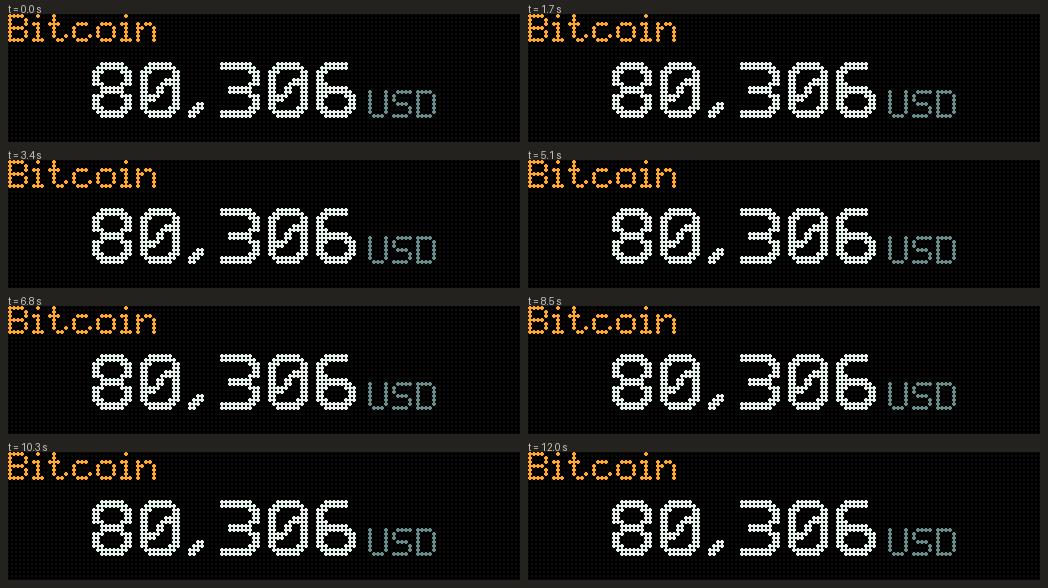
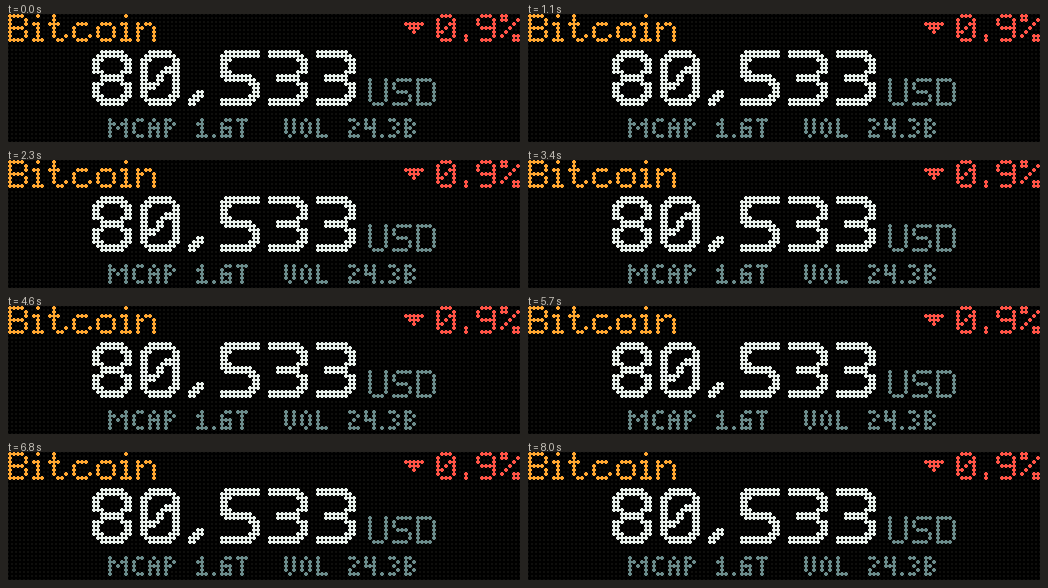
Data from a link: a change arrow and a line of detail on every card; Bitcoin now shows change, market cap and volume

diff --git a/plugins/url_data/plugin.py b/plugins/url_data/plugin.py
@@ -2,8 +2,10 @@
 
 Paste the address and the path to the field (for example `bitcoin.usd`,
 `data.0.temperature` or `stats.members`). Up to three values rotate as cards:
-your label, the value in big letters, and an optional unit. No code, no plugin
-to write. For data that needs a key, use an address that already includes it
+your label, the value in big letters, and an optional unit. Each card can also
+show a change (an arrow and a percent, green or red) and a line of detail built
+from other fields of the same reply, like `MCAP {bitcoin.usd_market_cap:short}`.
+No code, no plugin to write. For data that needs a key, use an address that already includes it
 (a Home Assistant or Node-RED endpoint on your network works well).
 """
 from __future__ import annotations
@@ -14,7 +16,8 @@ import re
 
 import aiohttp
 
-from rackticker import AMBER, MUTED, WHITE, Module, Plugin, Provider, Snapshot, draw_text, new_frame, text_width
+from rackticker import (AMBER, GREEN, MUTED, RED, WHITE, Module, Plugin, Provider, Snapshot, draw_text, draw_tiny,
+                        new_frame, text_width, tiny_width, triangle)
 
 SLOTS = 3
 CARD_SECONDS = 6.0
@@ -53,6 +56,48 @@ def display(value, decimals):
     return str(value)[:40]
 
 
+def number(value):
+    """A number from a value, or None: APIs send them as text as often as not."""
+    if isinstance(value, bool):
+        return None
+    try:
+        result = float(str(value).replace(",", "")) if isinstance(value, str) else float(value)
+    except (TypeError, ValueError):
+        return None
+    return result if math.isfinite(result) else None
+
+
+def short(value):
+    """1617671147604 -> 1.6T, 24312879325 -> 24.3B."""
+    for size, mark in ((1e12, "T"), (1e9, "B"), (1e6, "M"), (1e3, "K")):
+        if abs(value) >= size:
+            scaled = value / size
+            return f"{scaled:.1f}{mark}" if abs(scaled) < 100 else f"{scaled:.0f}{mark}"
+    return f"{value:.0f}"
+
+
+TOKEN = re.compile(r"\{([^{}:]+)(?::([^{}]*))?\}")
+
+
+def detail_line(template, payload):
+    """Fill `{path}` and `{path:short}` / `{path:+.1f}` from the reply; a missing field is '--'."""
+    def fill(match):
+        raw = pick(payload, match.group(1).strip())
+        spec = (match.group(2) or "").strip()
+        value = number(raw)
+        if raw is None:
+            return "--"
+        if value is not None and spec == "short":
+            return short(value)
+        if value is not None and spec:
+            try:
+                return format(value, spec)
+            except ValueError:
+                return display(raw, -1)
+        return display(raw, -1)
+    return TOKEN.sub(fill, template).strip()
+
+
 class Links(Provider):
     def __init__(self, context):
         self.context = context
@@ -72,7 +117,7 @@ class Links(Provider):
             async with self.session.get(url) as response:
                 response.raise_for_status()
                 payload = await response.json(content_type=None)
-            return pick(payload, settings[f"path_{slot}"].strip())
+            return payload
 
         results = await asyncio.gather(*(one(slot) for slot in range(1, SLOTS + 1)), return_exceptions=True)
         cards = []
@@ -81,14 +126,18 @@ class Links(Provider):
                 continue
             if isinstance(result, Exception):
                 print(f"link {slot}: {type(result).__name__}: {result}")
-                result = self.values.get(slot)  # keep the last good value through a hiccup
+                result = self.values.get(slot)  # keep the last good reply through a hiccup
             else:
                 self.values[slot] = result
-            if result is None:
+            value = pick(result, settings[f"path_{slot}"].strip()) if result is not None else None
+            if value is None:
                 continue
+            change = number(pick(result, settings[f"change_{slot}"].strip())) if settings[f"change_{slot}"].strip() else None
+            template = settings[f"detail_{slot}"].strip()
             cards.append({"label": settings[f"label_{slot}"] or f"Value {slot}",
-                          "value": display(result, int(settings[f"decimals_{slot}"])),
-                          "unit": settings[f"unit_{slot}"]})
+                          "value": display(value, int(settings[f"decimals_{slot}"])),
+                          "unit": settings[f"unit_{slot}"], "change": change,
+                          "detail": detail_line(template, result) if template else ""})
         return Snapshot(cards)
 
     async def close(self):
@@ -116,14 +165,26 @@ class Cards(Module):
         card = cards[int(t // CARD_SECONDS) % len(cards)]
         local = t % CARD_SECONDS
         draw_text(frame, card["label"], 0, 0, AMBER, mixed=True)
-        value, unit = card["value"], card["unit"]
+        change = card.get("change")
+        if change is not None:
+            colour = GREEN if change >= 0 else RED
+            words = f"{abs(change):.1f}%"
+            triangle(frame, 128 - text_width(words) - 8, 2, change >= 0, colour)
+            draw_text(frame, words, 128 - text_width(words), 0, colour)
+        value, unit, detail = card["value"], card["unit"], card.get("detail") or ""
         unit_width = text_width(unit) + 3 if unit else 0
         scale = 2 if text_width(value, 2) + unit_width <= 128 else 1
         x = (128 - text_width(value, scale) - unit_width) // 2
         rise = max(0, round((1 - min(1, local / .3)) * 6)) if len(cards) > 1 else 0
-        draw_text(frame, value, x, (12 if scale == 2 else 16) + rise, WHITE, scale, scale == 2)
+        # With a detail line the number moves up to make room for it.
+        top = (9 if detail else 12) if scale == 2 else (13 if detail else 16)
+        draw_text(frame, value, x, top + rise, WHITE, scale, scale == 2)
         if unit:
-            draw_text(frame, unit, x + text_width(value, scale) + 3, 19 + rise, MUTED)
+            draw_text(frame, unit, x + text_width(value, scale) + 3, top + 7 + rise, MUTED)
+        if detail:
+            while detail and tiny_width(detail) > 128:
+                detail = detail[:-1].rstrip()
+            draw_tiny(frame, detail, (128 - tiny_width(detail)) // 2, 26 + rise // 2, MUTED)
         return frame
 
 
@@ -141,14 +202,21 @@ def validate(settings):
 defaults, ui, help_text = {"refresh_seconds": 60}, {"refresh_seconds": {"advanced": True}}, {}
 for slot in range(1, SLOTS + 1):
     defaults.update({f"label_{slot}": "", f"url_{slot}": "", f"path_{slot}": "", f"unit_{slot}": "",
-                     f"decimals_{slot}": -1})
+                     f"decimals_{slot}": -1, f"change_{slot}": "", f"detail_{slot}": ""})
     ui.update({f"label_{slot}": {"label": f"Card {slot}: label"}, f"url_{slot}": {"label": f"Card {slot}: link"},
                f"path_{slot}": {"label": f"Card {slot}: field"}, f"unit_{slot}": {"label": f"Card {slot}: unit"},
-               f"decimals_{slot}": {"label": f"Card {slot}: decimals", "advanced": True}})
-defaults.update({"label_1": "Bitcoin", "url_1": "https://api.coinbase.com/v2/prices/BTC-USD/spot",
-                 "path_1": "data.amount", "unit_1": "USD", "decimals_1": 0})
-help_text = {"path_1": "Where the value is in the JSON, e.g. data.amount or items.0.price",
-             "decimals_1": "-1 shows the number as it comes"}
+               f"decimals_{slot}": {"label": f"Card {slot}: decimals", "advanced": True},
+               f"change_{slot}": {"label": f"Card {slot}: change field (optional)"},
+               f"detail_{slot}": {"label": f"Card {slot}: detail line (optional)"}})
+defaults.update({"label_1": "Bitcoin",
+                 "url_1": "https://api.coingecko.com/api/v3/simple/price?ids=bitcoin&vs_currencies=usd"
+                          "&include_24hr_change=true&include_market_cap=true&include_24hr_vol=true",
+                 "path_1": "bitcoin.usd", "unit_1": "USD", "decimals_1": 0, "change_1": "bitcoin.usd_24h_change",
+                 "detail_1": "MCAP {bitcoin.usd_market_cap:short}  VOL {bitcoin.usd_24h_vol:short}"})
+help_text = {"path_1": "Where the value is in the JSON, e.g. bitcoin.usd or items.0.price",
+             "decimals_1": "-1 shows the number as it comes",
+             "change_1": "A field holding a percent change; it shows as an arrow, green up and red down",
+             "detail_1": "A line of small print. Put fields in braces: {path} or {path:short} for 1.6T, {path:+.1f} to format"}
 
 plugin = Plugin("url_data", "Data from a link", module=Cards, provider=Links, defaults=defaults,
                 validate_settings=validate, help=help_text, ui=ui)

diff --git a/tests/test_moved.py b/tests/test_moved.py
@@ -131,3 +131,17 @@ if __name__ == "__main__":
 
 if __name__ == "__main__":
     unittest.main()
+
+
+@unittest.skipIf(validate_config is None, "clone RackTicker beside this repository to run these")
+class LinkCardTests(unittest.TestCase):
+    def test_a_detail_line_fills_fields_and_abbreviates_big_numbers(self):
+        links = load("links_test", "url_data")
+        reply = {"bitcoin": {"usd": 80533, "usd_market_cap": 1617671147604.7, "usd_24h_vol": 24312879325.7,
+                             "usd_24h_change": -0.867}}
+        self.assertEqual(links.detail_line("MCAP {bitcoin.usd_market_cap:short}  VOL {bitcoin.usd_24h_vol:short}", reply),
+                         "MCAP 1.6T  VOL 24.3B")
+        self.assertEqual(links.detail_line("24H {bitcoin.usd_24h_change:+.1f}%", reply), "24H -0.9%")
+        self.assertEqual(links.detail_line("X {bitcoin.nothing}", reply), "X --")
+        self.assertEqual(links.number("81,280.50"), 81280.5)
+        self.assertIsNone(links.number(True))
